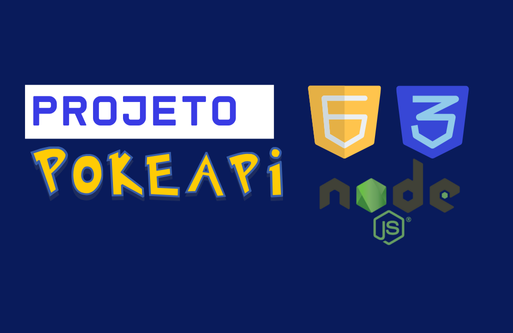
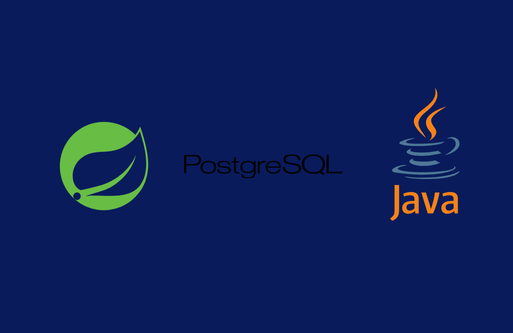
Alterando imagens do projeto e atualizando descriçao pessoal

Changed region(s): [[0.0312, 0.2402, 0.9357, 0.7508]]

diff --git a/index.html b/index.html
@@ -93,7 +93,7 @@
                          Apaixonado por arquitetura de software e soluções escaláveis. Minha jornada começou como um entusiasta de programação e evoluiu para um profissional focado em construir sistemas backend eficientes e seguros e atualmente em busca da minha primeira oportunidade na área.
                     </p>
                     <p class="text-gray-300 mb-6">
-                        Minha especialidade é desenvolver APIs RESTful, integrar sistemas complexos e otimizar o desempenho de aplicações. Acredito em código limpo, testes automatizados e documentação completa.
+                        Meu foco é desenvolver APIs RESTful, integrar sistemas e otimizar o desempenho de aplicações. Acredito em código limpo, testes automatizados e documentação completa.
                     </p>
                     <div class="grid grid-cols-2 gap-4">
                         <div class="flex items-center">
@@ -191,22 +191,21 @@
                              class="w-full h-full object-cover">
                     </div>
                     <div class="p-6">
-                        <h3 class="text-xl font-semibold mb-2">PokeAPI Pokedex</h3>
-                        <p class="text-gray-300 mb-4">Aplicação web que consome a PokeAPI para o preenchimento de informações em uma pokedex.</p>
+                        <h3 class="text-xl font-semibold mb-2">Encurtador de Url</h3>
+                        <p class="text-gray-300 mb-4">Projeto de encurtador de url feito com Springboot buildando um pequeno CRUD para um encurtador de link, desafio segue todos os padrões que foram propostos pelo Backend Brasil</p>
                         <div class="flex flex-wrap gap-2 mb-4">
-                            <span class="bg-blue-900 text-blue-300 px-3 py-1 rounded-full text-sm">HTML</span>
-                            <span class="bg-blue-900 text-blue-300 px-3 py-1 rounded-full text-sm">CSS</span>
-                            <span class="bg-blue-900 text-blue-300 px-3 py-1 rounded-full text-sm">JavaScript</span>
-                            <span class="bg-blue-900 text-blue-300 px-3 py-1 rounded-full text-sm">API Fetch</span>
-                            <span class="bg-blue-900 text-blue-300 px-3 py-1 rounded-full text-sm">Node.JS</span>
+                            <span class="bg-blue-900 text-blue-300 px-3 py-1 rounded-full text-sm">Java 21</span>
+                            <span class="bg-blue-900 text-blue-300 px-3 py-1 rounded-full text-sm">PostgreSQL</span>
+                            <span class="bg-blue-900 text-blue-300 px-3 py-1 rounded-full text-sm">Spring Boot</span>
+                           
                             
 
                         </div>
                         <div class="flex justify-between">
-                            <a href="https://github.com/livio1212/projeto-pokemon" class="text-blue-400 hover:text-blue-300 transition">
+                            <a href="https://github.com/livio1212/EncurtadorUrl" class="text-blue-400 hover:text-blue-300 transition">
                                 <i class="fas fa-code mr-1"></i> Código
                             </a>
-                            <a href="https://github.com/livio1212/projeto-pokemon" class="text-blue-400 hover:text-blue-300 transition">
+                            <a href="https://github.com/livio1212/EncurtadorUrl" class="text-blue-400 hover:text-blue-300 transition">
                                 <i class="fas fa-external-link-alt mr-1"></i> Demo
                             </a>
                         </div>
@@ -225,7 +224,7 @@
                         <p class="text-gray-300 mb-4">API REST desenvolvida com base no desafio para desenvolvedor junior do ITAU</p>
                         <div class="flex flex-wrap gap-2 mb-4">
                             <span class="bg-blue-900 text-blue-300 px-3 py-1 rounded-full text-sm">Node.js</span>
-                            <span class="bg-blue-900 text-blue-300 px-3 py-1 rounded-full text-sm">JSON</span>
+                            <span class="bg-blue-900 text-blue-300 px-3 py-1 rounded-full text-sm">Express</span>
                             <span class="bg-blue-900 text-blue-300 px-3 py-1 rounded-full text-sm">JavaScript</span>
                         </div>
                         <div class="flex justify-between">
